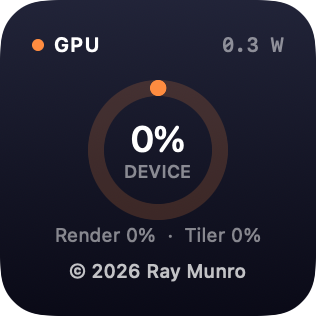
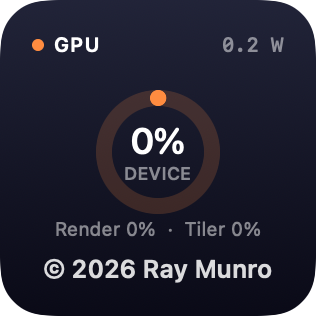
Make the copyright larger on the widgets and the panel title bar
Raises it to 12.5 pt and brightens it, and tightens the widget layouts so
everything still fits at the real widget sizes.

Changed region(s): [[0.1709, 0.2278, 0.8259, 0.769], [0.1424, 0.7975, 0.8544, 0.9114], [0.769, 0.1424, 0.8259, 0.1709]]

diff --git a/Sources/Shared/WidgetViews.swift b/Sources/Shared/WidgetViews.swift
@@ -52,7 +52,7 @@ private func tappable<C: View>(_ content: C) -> some View {
 
 private struct CopyrightLine: View {
     var body: some View {
-        Text("\u{00A9} 2026 Ray Munro").font(.system(size: 9.5, weight: .medium)).foregroundStyle(.white.opacity(0.75)).lineLimit(1)
+        Text("\u{00A9} 2026 Ray Munro").font(.system(size: 12.5, weight: .semibold)).foregroundStyle(.white.opacity(0.85)).lineLimit(1)
     }
 }
 
@@ -112,18 +112,18 @@ struct SmallWidgetView: View {
     @ViewBuilder private var ring: some View {
         switch component {
         case .cpu:
-            Ring(value: d.cpuLoad, color: Palette.cpuP, label: pct(d.cpuLoad), sub: "LOAD", line: 8, labelSize: 18).frame(width: 62, height: 62)
+            Ring(value: d.cpuLoad, color: Palette.cpuP, label: pct(d.cpuLoad), sub: "LOAD", line: 8, labelSize: 18).frame(width: 54, height: 54)
         case .gpu:
-            Ring(value: d.gpuUtil, color: Palette.gpu, label: pct(d.gpuUtil), sub: "DEVICE", line: 8, labelSize: 18).frame(width: 62, height: 62)
+            Ring(value: d.gpuUtil, color: Palette.gpu, label: pct(d.gpuUtil), sub: "DEVICE", line: 8, labelSize: 18).frame(width: 54, height: 54)
         case .neuralEngine:
             Ring(value: min(d.aneW / WidgetData.aneMaxWatts, 1), color: Palette.ane, label: String(format: "%.1f", d.aneW),
-                 sub: "WATTS", line: 8, labelSize: 18).frame(width: 62, height: 62)
+                 sub: "WATTS", line: 8, labelSize: 18).frame(width: 54, height: 54)
         case .memory:
             Ring(value: d.memUsed / max(d.memTotal, 1), color: Palette.mem, label: String(format: "%.1f", d.memUsed / 1_073_741_824),
-                 sub: "GB USED", line: 8, labelSize: 18).frame(width: 62, height: 62)
+                 sub: "GB USED", line: 8, labelSize: 18).frame(width: 54, height: 54)
         case .power:
             Ring(value: min(d.totalW / 40, 1), color: .white, label: String(format: "%.1f", d.totalW), sub: "WATTS", line: 8, labelSize: 18)
-                .frame(width: 62, height: 62)
+                .frame(width: 54, height: 54)
         }
     }
 
@@ -144,24 +144,24 @@ struct MediumWidgetView: View {
     let d: WidgetData
 
     var body: some View {
-        VStack(spacing: 6) {
+        VStack(spacing: 4) {
             HStack(alignment: .top, spacing: 14) {
                 VStack(alignment: .leading, spacing: 3) {
                     Header(title: "CPU", tint: Palette.cpuP, trailing: watts(d.cpuW, known: d.powerKnown))
                     Text("PERFORMANCE \(pct(avg(d.pCores)))").font(.system(size: 8, weight: .semibold)).foregroundStyle(Palette.cpuP)
-                    CoreBars(loads: d.pCores, color: Palette.cpuP, height: 17, spacing: 2)
+                    CoreBars(loads: d.pCores, color: Palette.cpuP, height: 14, spacing: 2)
                     Text("EFFICIENCY \(pct(avg(d.eCores)))").font(.system(size: 8, weight: .semibold)).foregroundStyle(Palette.cpuE)
-                    CoreBars(loads: d.eCores, color: Palette.cpuE, height: 17, spacing: 2)
+                    CoreBars(loads: d.eCores, color: Palette.cpuE, height: 14, spacing: 2)
                 }.frame(maxWidth: .infinity)
                 VStack(spacing: 4) {
                     Header(title: "GPU", tint: Palette.gpu, trailing: watts(d.gpuW, known: d.powerKnown))
                     Ring(value: d.gpuUtil, color: Palette.gpu, label: pct(d.gpuUtil), sub: "DEVICE", line: 6, labelSize: 14, subSize: 7)
-                        .frame(width: 54, height: 54)
+                        .frame(width: 46, height: 46)
                 }.frame(width: 84)
                 VStack(spacing: 4) {
                     Header(title: "ANE", tint: Palette.ane, trailing: watts(d.aneW, known: d.powerKnown))
                     Ring(value: min(d.aneW / WidgetData.aneMaxWatts, 1), color: Palette.ane, label: String(format: "%.1f", d.aneW),
-                         sub: "WATTS", line: 6, labelSize: 14, subSize: 7).frame(width: 54, height: 54)
+                         sub: "WATTS", line: 6, labelSize: 14, subSize: 7).frame(width: 46, height: 46)
                 }.frame(width: 84)
             }
             Spacer(minLength: 0)
@@ -188,24 +188,24 @@ struct LargeWidgetView: View {
     let d: WidgetData
 
     var body: some View {
-        VStack(spacing: 6) {
+        VStack(spacing: 5) {
             panel {
                 Header(title: "CPU", tint: Palette.cpuP, trailing: watts(d.cpuW, known: d.powerKnown), size: 11)
                 Text("PERFORMANCE · \(d.pCores.count)   \(pct(avg(d.pCores)))").font(.system(size: 8.5, weight: .semibold)).foregroundStyle(Palette.cpuP)
-                CoreBars(loads: d.pCores, color: Palette.cpuP, height: 15)
+                CoreBars(loads: d.pCores, color: Palette.cpuP, height: 13)
                 Text("EFFICIENCY · \(d.eCores.count)   \(pct(avg(d.eCores)))").font(.system(size: 8.5, weight: .semibold)).foregroundStyle(Palette.cpuE)
-                CoreBars(loads: d.eCores, color: Palette.cpuE, height: 15)
+                CoreBars(loads: d.eCores, color: Palette.cpuE, height: 13)
             }
             HStack(spacing: 7) {
                 panel {
                     Header(title: "GPU", tint: Palette.gpu, trailing: watts(d.gpuW, known: d.powerKnown), size: 11)
                     Ring(value: d.gpuUtil, color: Palette.gpu, label: pct(d.gpuUtil), sub: "DEVICE", line: 6, labelSize: 12)
-                        .frame(width: 46, height: 46).frame(maxWidth: .infinity)
+                        .frame(width: 42, height: 42).frame(maxWidth: .infinity)
                 }
                 panel {
                     Header(title: "NEURAL ENGINE", tint: Palette.ane, trailing: watts(d.aneW, known: d.powerKnown), size: 11)
                     Ring(value: min(d.aneW / WidgetData.aneMaxWatts, 1), color: Palette.ane, label: String(format: "%.1f", d.aneW),
-                         sub: "WATTS", line: 6, labelSize: 12).frame(width: 46, height: 46).frame(maxWidth: .infinity)
+                         sub: "WATTS", line: 6, labelSize: 12).frame(width: 42, height: 42).frame(maxWidth: .infinity)
                 }
             }
             tappable(panel {

diff --git a/Sources/SiliconInfo/Views.swift b/Sources/SiliconInfo/Views.swift
@@ -77,12 +77,12 @@ struct WidgetView: View {
             .help("Close panel (Silicon Info keeps running in the menu bar)")
             Spacer()
             Text("Silicon Info  \u{00B7}  \u{00A9} 2026 Ray Munro")
-                .font(.system(size: 10.5, weight: .medium)).foregroundStyle(.secondary)
+                .font(.system(size: 12.5, weight: .semibold)).foregroundStyle(.white.opacity(0.85))
             Spacer()
             Color.clear.frame(width: 14, height: 14)   // balances the close button so the text stays centred
         }
         .padding(.horizontal, 4)
-        .frame(height: 20)
+        .frame(height: 22)
         .background(WindowDragHandle())
     }
 
